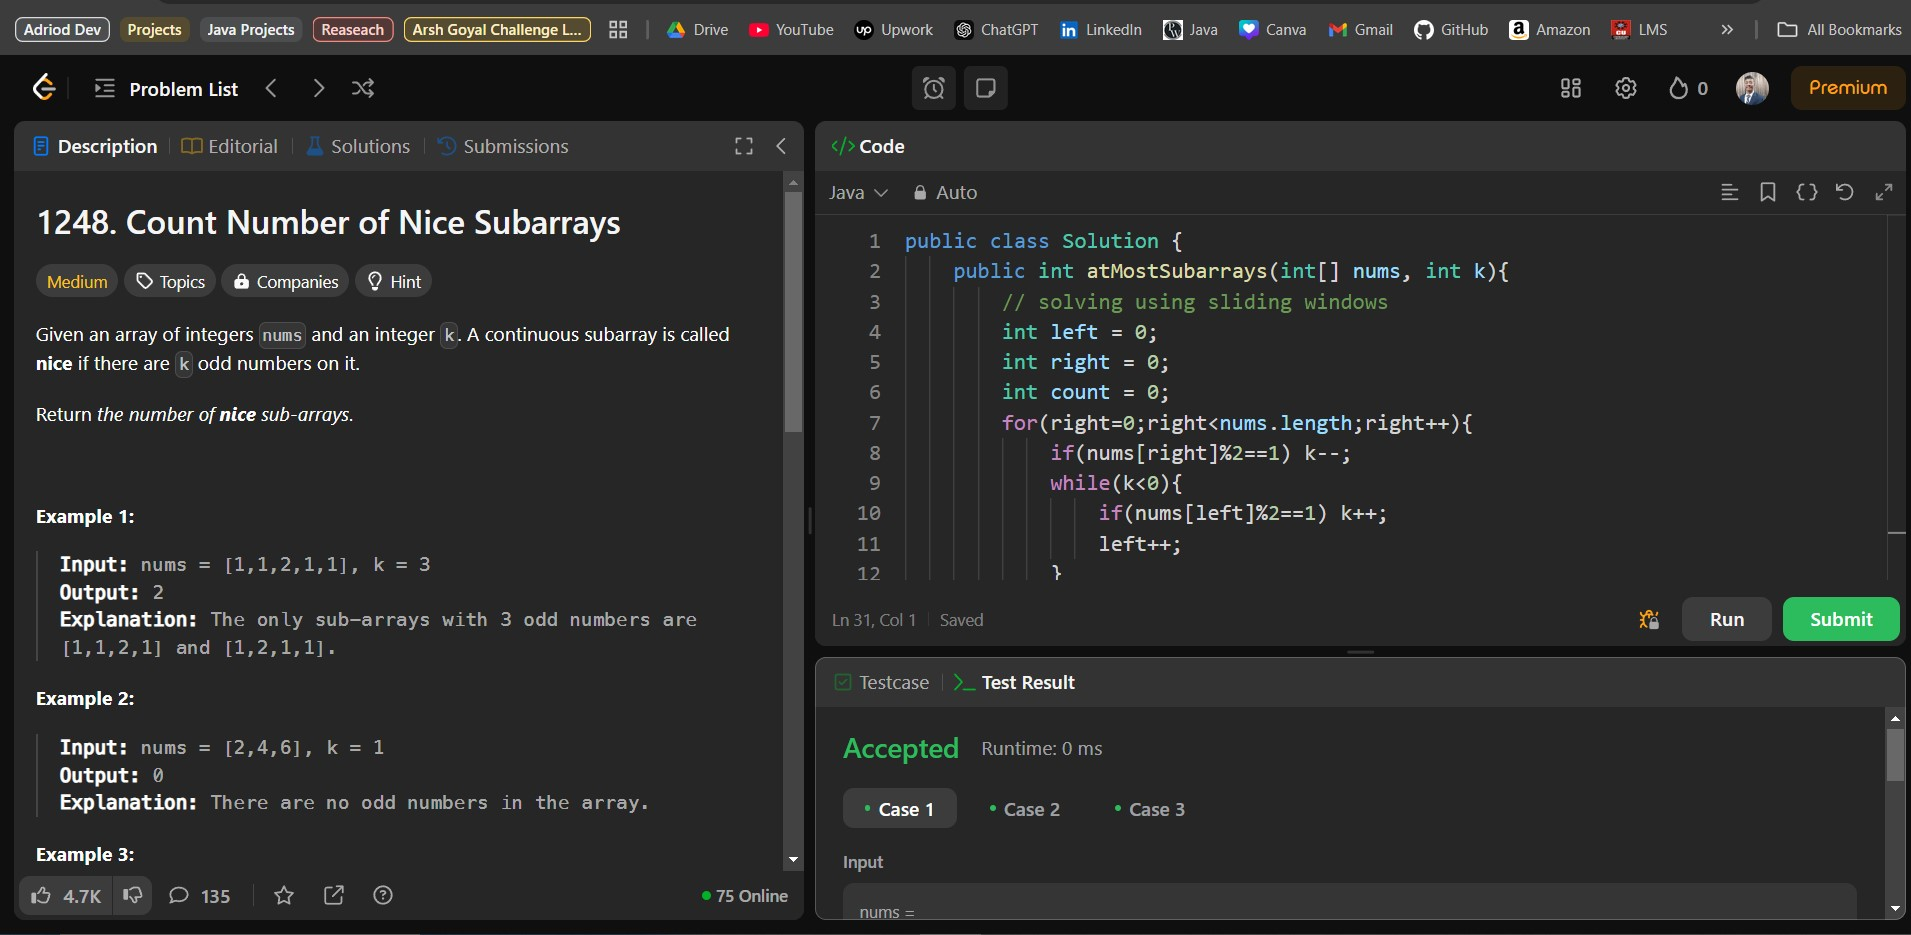
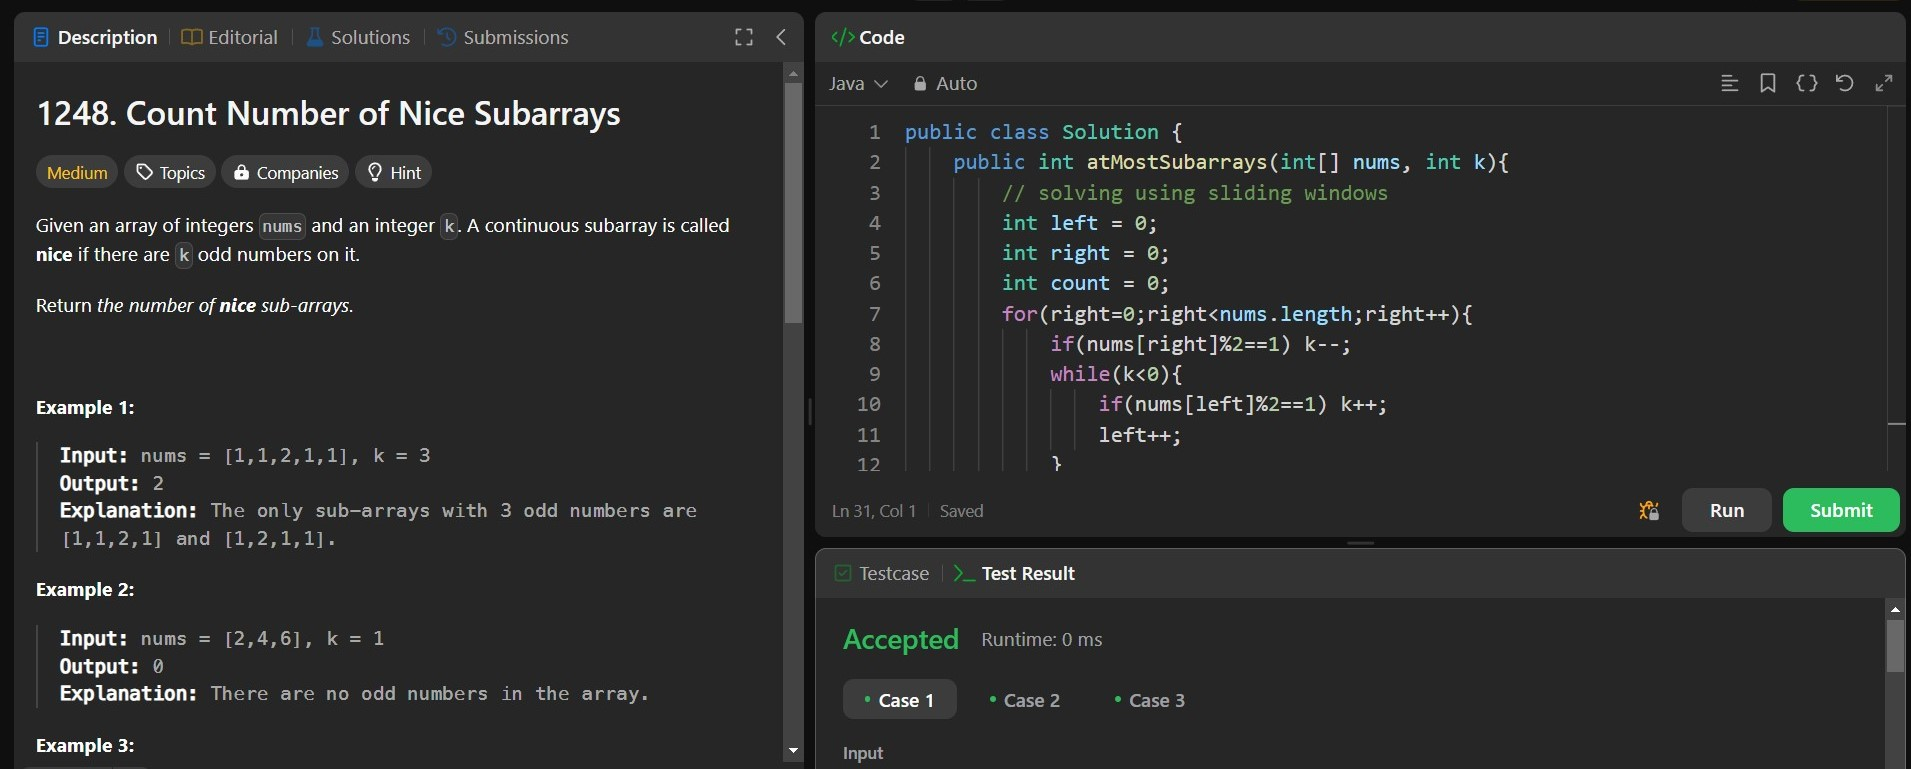
1823. Find the Winner of the Circular Game

diff --git a/1248. Nice Subarrays/Solution.java b/1248. Nice Subarrays/Solution.java
@@ -1,23 +1,30 @@
 public class Solution {
-    public boolean IsOdd(int n){
-      if(n%2!=0) return true;
-      else return false;
-    }
-    public int numberOfSubarrays(int[] nums, int k) {
-        int total = 0;
-        int len = nums.length;
-        for (int i = 0; i < len; i++) {
-            int count = k;
-            for (int j = i; j < len; j++) {
-                if(IsOdd(nums[j])==true) count--;
-                if(count==0){
-                    total++;
-                    break;
-                } 
-
+    public int atMostSubarrays(int[] nums, int k){
+        // solving using sliding windows
+        int left = 0;
+        int right = 0;
+        int count = 0;
+        for(right=0;right<nums.length;right++){
+            if(nums[right]%2==1) k--;
+            while(k<0){
+                if(nums[left]%2==1) k++;
+                left++;
             }
+            count  +=  (right - left + 1);
+            // right - left + 1 se total sub-array milti hai 
+            // count += se vo pichle count me add ho jati hai 
         }
+        return count;
+    }
 
+
+    public int numberOfSubarrays(int[] nums, int k) {
+        int ans = atMostSubarrays(nums, k) - atMostSubarrays(nums, k-1);
+        // example 
+        // ek sliding window me zyada se zyada 3 honi chahiye aur esi kinti hogi -- A
+        // ek me max to max 2 honi chahiye and esi kitni hogi - B
+        // A-B sirf A wali bach jayegi
+        return ans;
     }
 
 }
